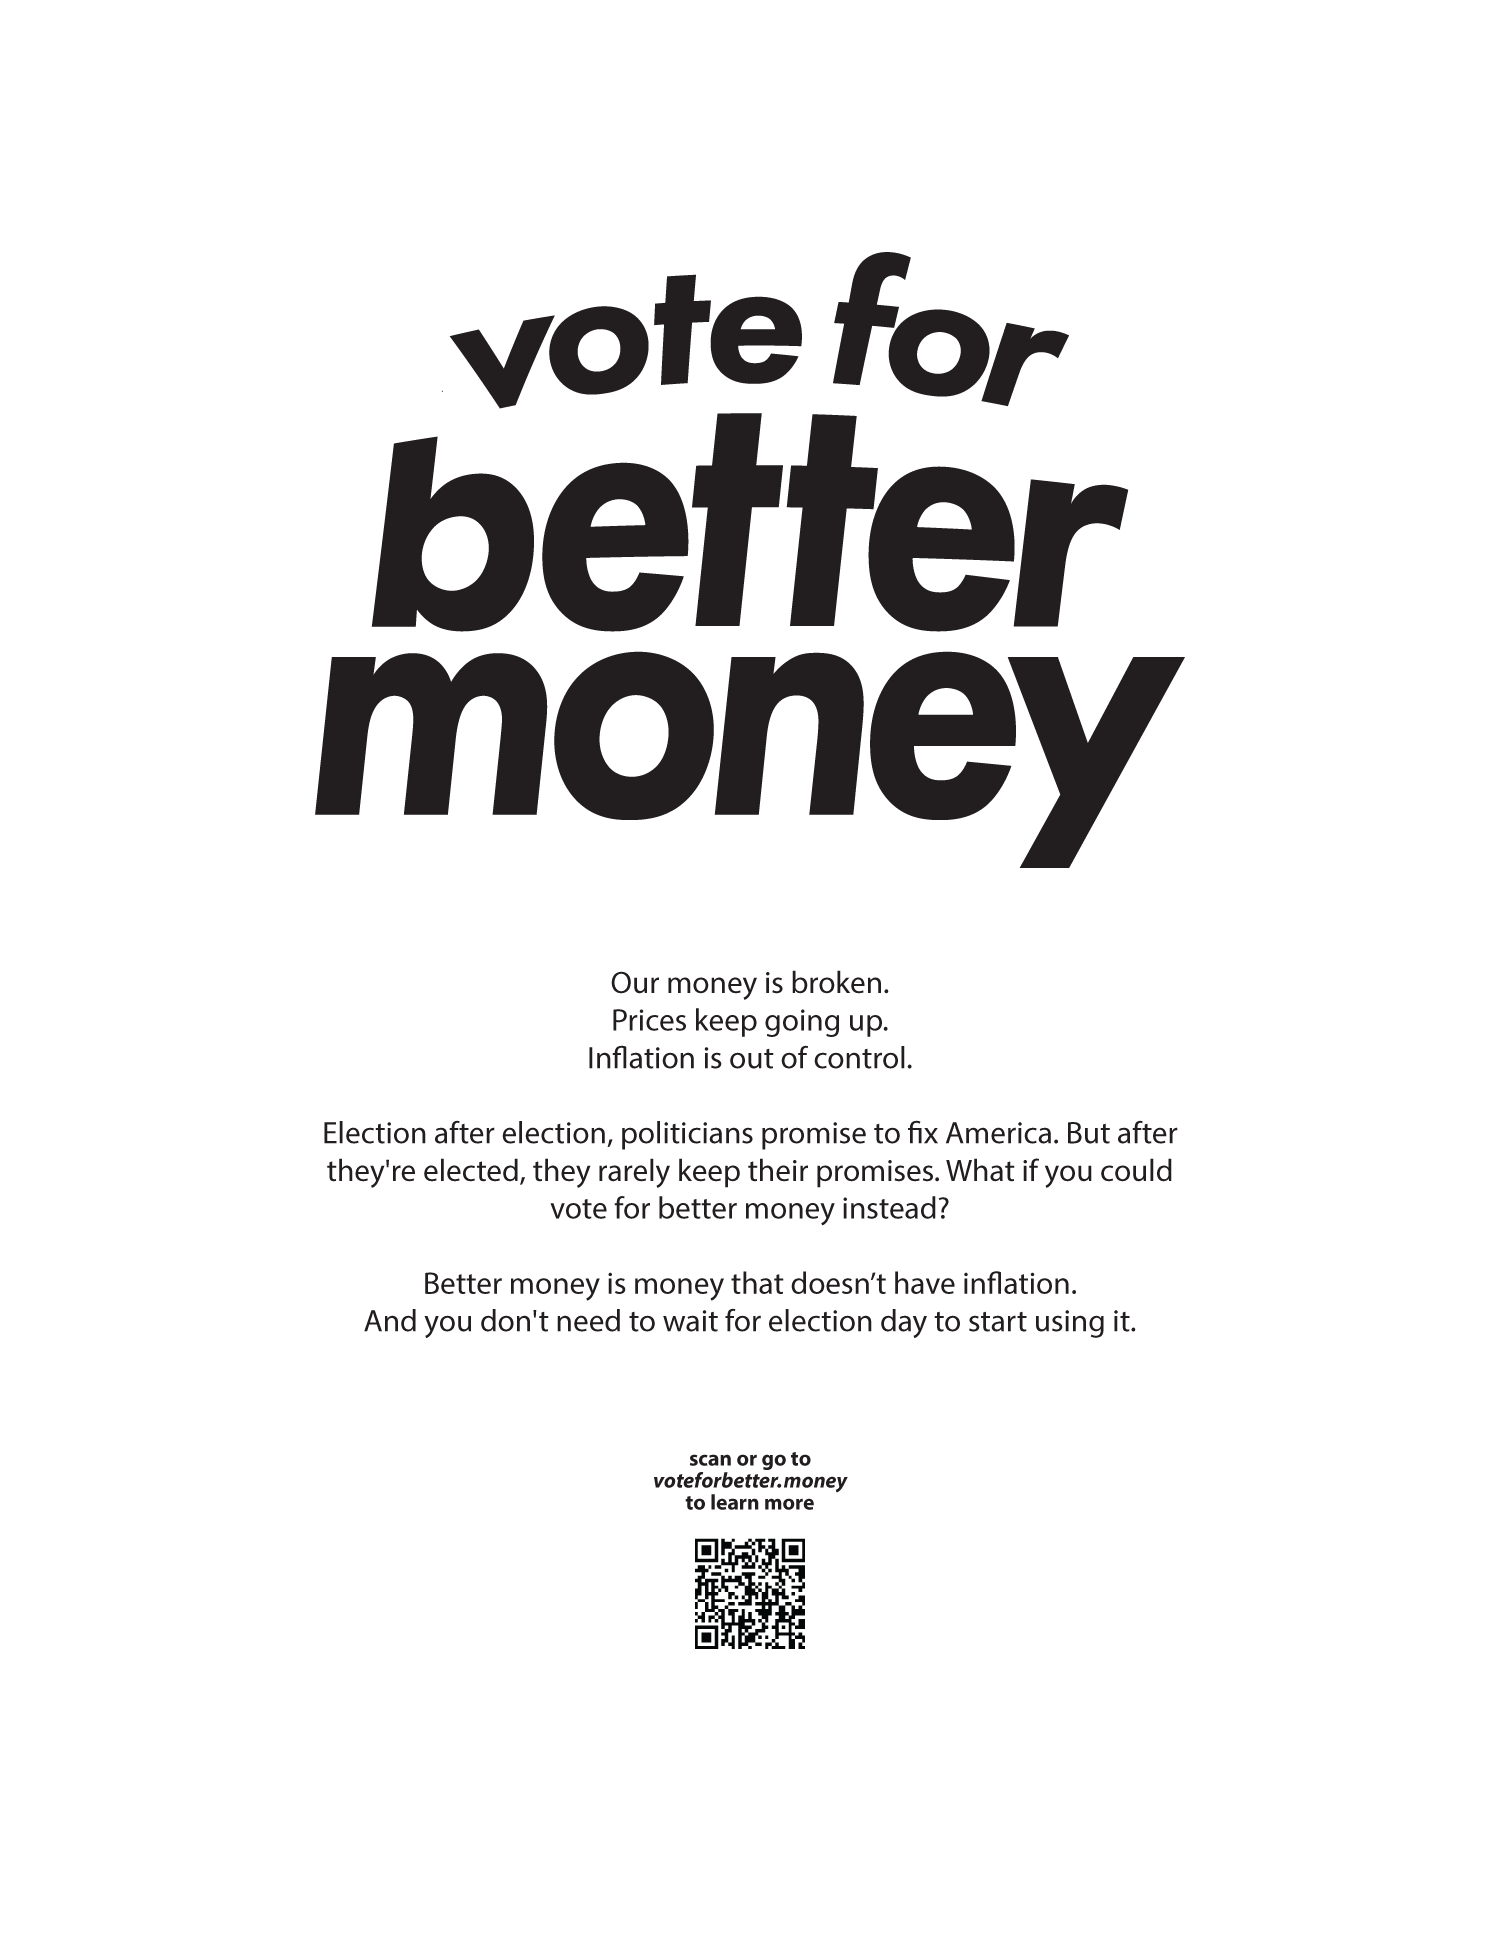
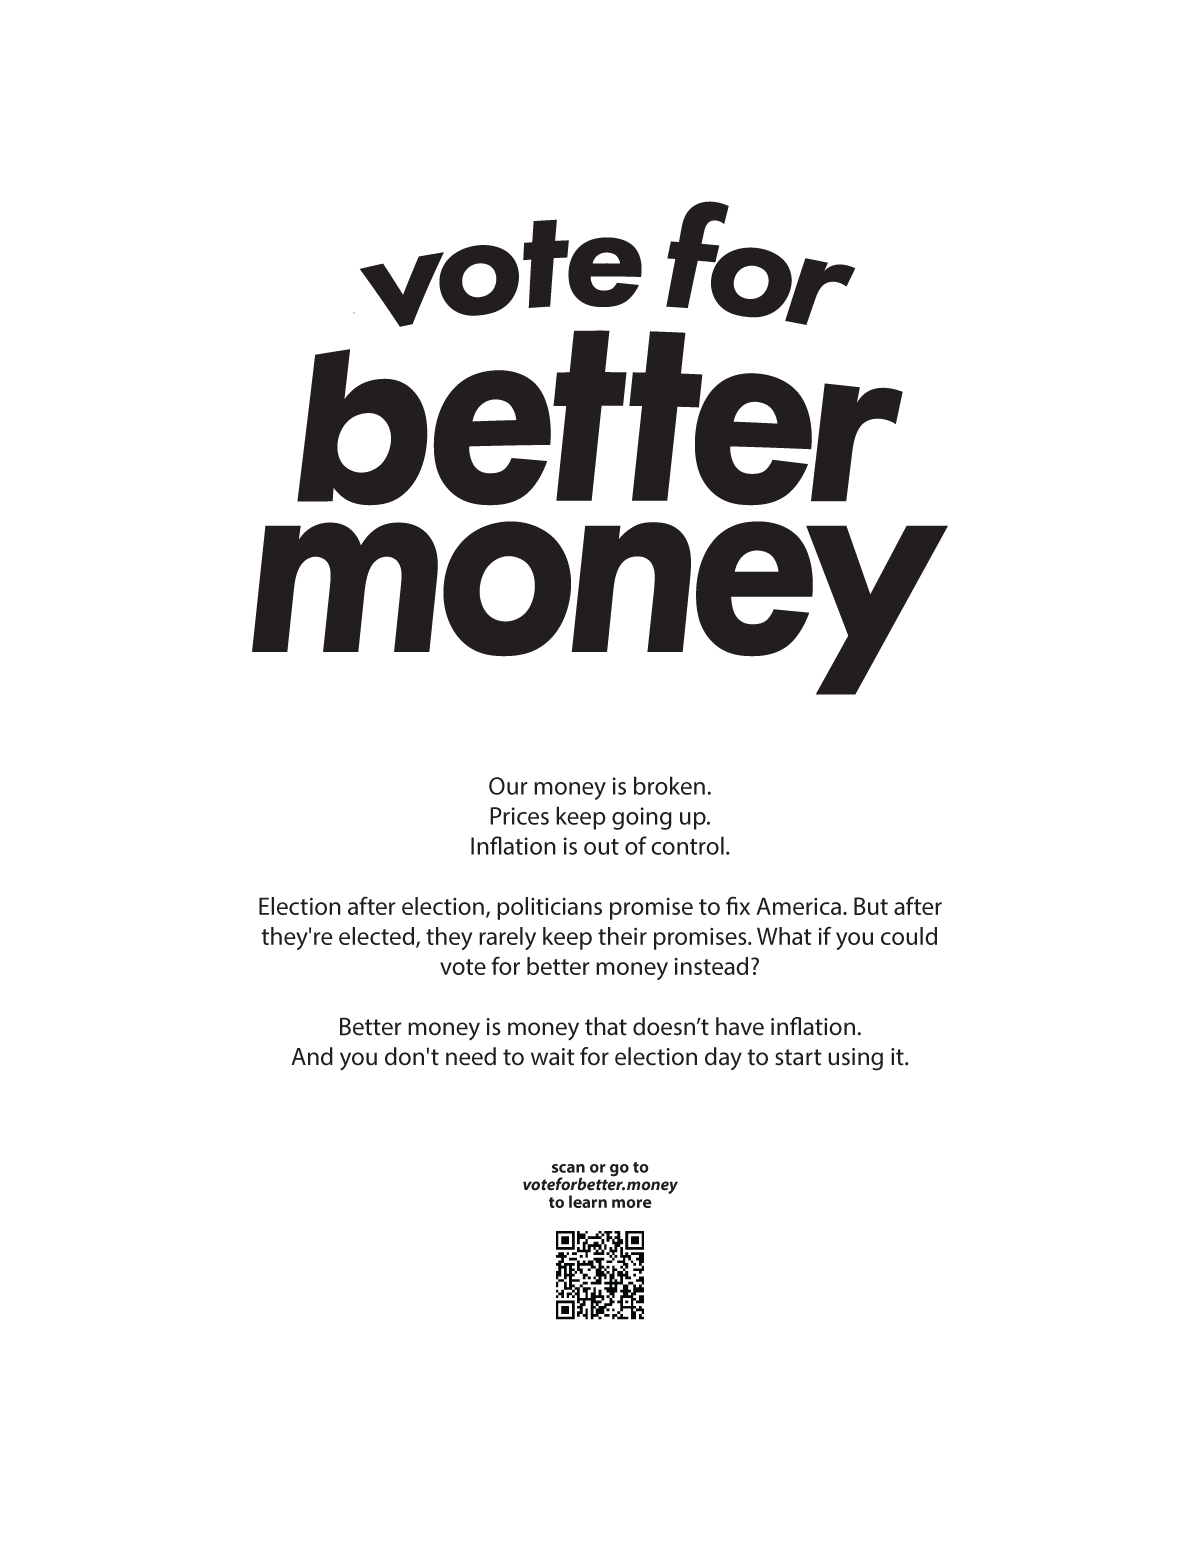
Update flyer preview image to be crisper

diff --git a/app/flyers/page.tsx b/app/flyers/page.tsx
@@ -63,8 +63,9 @@ export default function FlyersPage() {
             <Image
               src="/img/flyer-v2-preview.png"
               alt="Vote For Better Money flyer preview — click to download PDF"
-              width={600}
-              height={776}
+              width={1200}
+              height={1553}
+              quality={100}
               className="w-full h-auto rounded-lg"
             />
           </a>
